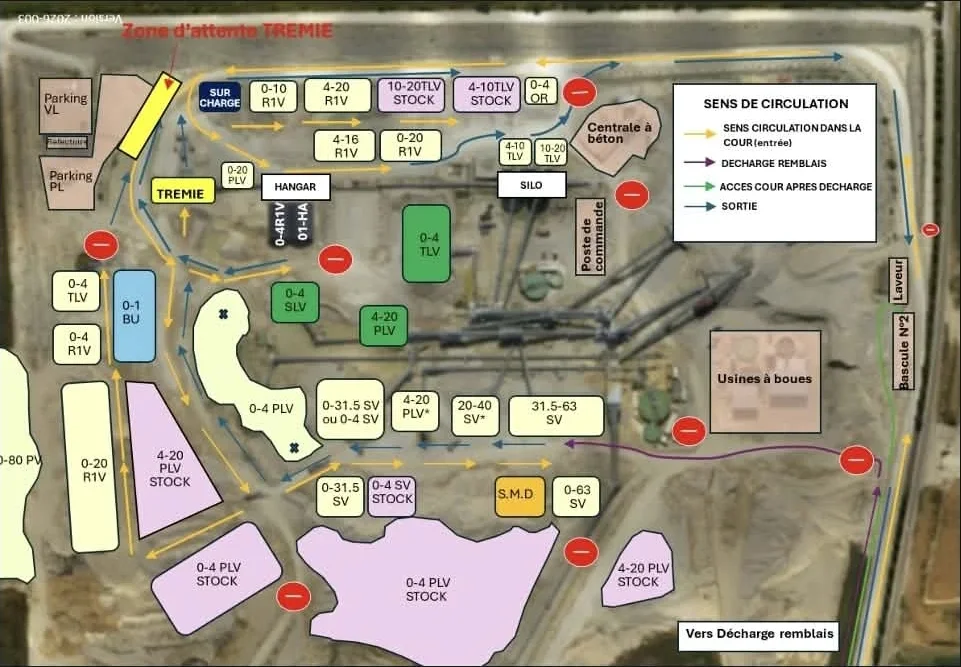
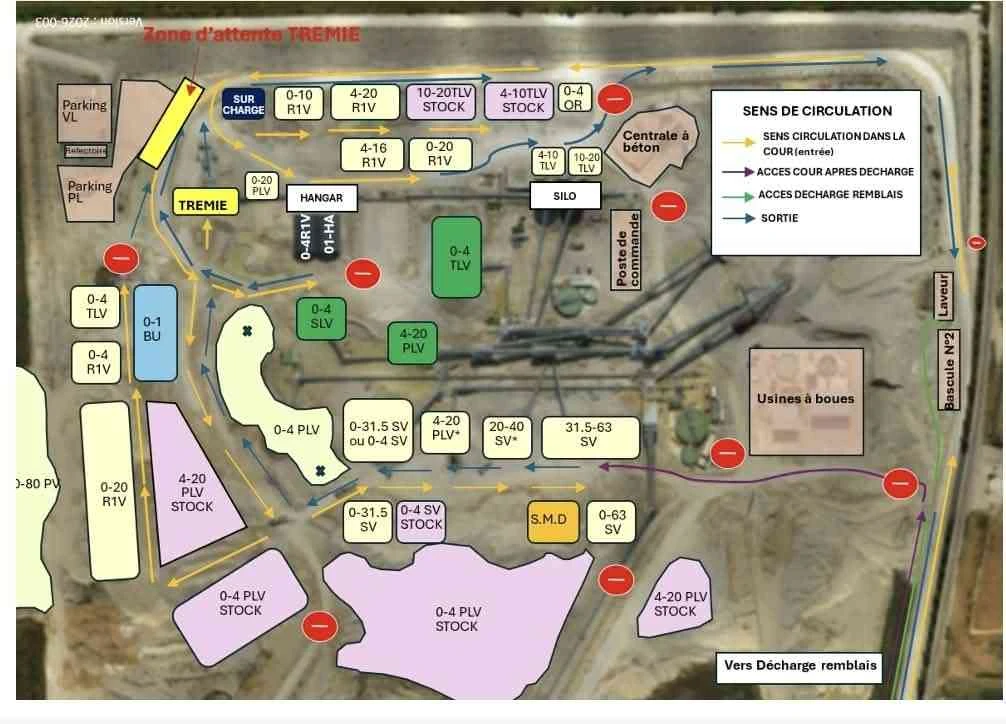
Nouvelle légende du plan, parkings redessinés, colonnes alignées
- Violet = accès cour après décharge, vert = accès décharge remblais
  (légende, itinéraires, flèche verte, zone et consigne)
- Parking PL en forme de L, réfectoire et zone d'attente recalés
- Blocs sous le plan en deux colonnes alignées en haut
- Nouvelle version de l'affiche dans sources/

diff --git a/src/data/plan-1.ts b/src/data/plan-1.ts
@@ -15,8 +15,8 @@ import { plan1Annotations } from './plan-1-annotations';
 
 const JAUNE = '#FFD400'; // circulation dans la cour (entrée)
 const BLEU = '#1F7AE0'; // sortie
-const VIOLET = '#A64DD6'; // décharge remblais
-const VERT = '#00C853'; // accès cour après décharge
+const VIOLET = '#A64DD6'; // accès cour après décharge
+const VERT = '#00C853'; // accès décharge remblais
 const ROUGE = '#E0001B'; // zones interdites
 const BLANC = '#FFFFFF';
 const ORANGE = '#FF8A00';
@@ -33,8 +33,8 @@ export const plan1: PlanData = {
   legend: [
     { color: JAUNE, label: 'Circulation dans la cour (entrée)' },
     { color: BLEU, label: 'Sortie' },
-    { color: VIOLET, label: 'Décharge remblais' },
-    { color: VERT, label: 'Accès cour après décharge' },
+    { color: VIOLET, label: 'Accès cour après décharge' },
+    { color: VERT, label: 'Accès décharge remblais' },
   ],
   width: 961,
   height: 667,
@@ -56,7 +56,7 @@ export const plan1: PlanData = {
       description: 'L’attente pour la trémie se fait le long du parking à engins.',
       consigne: 'Ne stationnez pas sur la piste : attendez votre tour dans la zone jaune.',
       shape: 'polygon',
-      coords: [160, 72, 180, 84, 135, 160, 116, 149],
+      coords: [164, 73, 182, 84, 136, 160, 119, 149],
       color: JAUNE,
     },
     {
@@ -81,7 +81,7 @@ export const plan1: PlanData = {
       label: 'Parking PL',
       description: 'Stationnement des poids lourds.',
       shape: 'polygon',
-      coords: [42, 150, 110, 136, 92, 212, 40, 210],
+      coords: [101, 76, 137, 76, 152, 86, 118, 148, 106, 162, 96, 182, 94, 209, 49, 209, 40, 156, 93, 157, 94, 136, 100, 134],
       color: BLANC,
     },
     {
@@ -89,7 +89,7 @@ export const plan1: PlanData = {
       label: 'Parking VL et réfectoire',
       description: 'Stationnement des véhicules légers. Le réfectoire se trouve entre les deux parkings.',
       shape: 'polygon',
-      coords: [40, 78, 96, 78, 96, 150, 40, 150],
+      coords: [40, 79, 93, 79, 93, 149, 40, 149],
       color: BLANC,
     },
     {
@@ -132,7 +132,7 @@ export const plan1: PlanData = {
       id: 'decharge-remblais',
       label: 'Décharge remblais',
       description:
-        'Accès à la décharge de remblais par la piste basse (flèche violette). Après la décharge, l’accès à la cour se fait par la voie verte.',
+        'Accès à la décharge de remblais par la voie verte, le long de la bascule. Après la décharge, l’accès à la cour se fait par la piste basse (flèche violette).',
       shape: 'polygon',
       coords: [678, 619, 838, 619, 838, 652, 678, 652],
       color: VIOLET,
@@ -169,26 +169,25 @@ export const plan1: PlanData = {
       ],
     },
     {
-      id: 'remblais',
-      label: 'Décharge remblais',
-      color: VIOLET,
-      d: 'M 846 667 C 852 610 864 540 878 494 C 882 476 874 462 845 458 C 800 452 720 451 640 451 L 566 448',
+      id: 'acces-decharge',
+      label: 'Accès décharge remblais',
+      color: VERT,
+      d: 'M 905 240 C 888 262 881 290 881 320 C 882 380 882 440 880 490 C 878 540 872 600 868 667',
       steps: [
-        'Entrée par la piste d’accès (est)',
-        'Bifurquer à gauche avant la bascule',
-        'Piste basse vers l’ouest (flèche violette)',
-        'Décharger selon les indications du chargeur',
+        'Depuis la cour, prendre la voie verte le long de la bascule',
+        'Descendre par la piste d’accès',
+        'Continuer vers la décharge remblais',
       ],
     },
     {
       id: 'retour-cour',
-      label: 'Retour cour après décharge',
-      color: VERT,
-      d: 'M 868 667 C 872 600 878 540 880 490 C 882 440 882 380 881 320 C 881 290 888 262 905 240',
+      label: 'Accès cour après décharge',
+      color: VIOLET,
+      d: 'M 846 667 C 852 610 864 540 878 494 C 882 476 874 462 845 458 C 800 452 720 451 640 451 L 566 448',
       steps: [
-        'Retour de la décharge par la piste d’accès',
-        'Remonter par la voie verte, à gauche de la bascule',
-        'Rejoindre la cour',
+        'Retour de la décharge remblais par la piste d’accès',
+        'Bifurquer avant la bascule (flèche violette)',
+        'Piste basse vers l’ouest jusqu’à la cour',
       ],
     },
   ],
@@ -209,7 +208,7 @@ export const plan1: PlanData = {
   rules: [
     {
       title: 'Sens de circulation',
-      text: 'Suivez les flèches : jaune pour entrer dans la cour, bleu pour sortir, violet pour la décharge remblais, vert pour revenir dans la cour après décharge.',
+      text: 'Suivez les flèches : jaune pour entrer dans la cour, bleu pour sortir, vert pour aller à la décharge remblais, violet pour revenir dans la cour après décharge.',
     },
     {
       title: 'Zones interdites',

diff --git a/src/data/plan-1-annotations.ts b/src/data/plan-1-annotations.ts
@@ -42,9 +42,11 @@ export const plan1Annotations: Annotations = {
     { kind: 'building', rect: [891, 310, 21, 82], label: 'Bascule N°2', vertical: true },
 
     // Parkings et attente trémie
-    { kind: 'parking', rect: [40, 78, 55, 57], label: 'Parking\nVL' },
-    { kind: 'parking', polygon: [42, 150, 110, 136, 92, 212, 40, 210], label: 'Parking\nPL' },
-    { kind: 'wait', polygon: [160, 72, 180, 84, 135, 160, 116, 149] },
+    { kind: 'parking', rect: [40, 79, 53, 56], label: 'Parking\nVL' },
+    { kind: 'building', rect: [46, 137, 42, 12], label: 'Réfectoire' },
+    // Parking PL : forme en L qui longe la zone d'attente
+    { kind: 'parking', polygon: [101, 76, 137, 76, 152, 86, 118, 148, 106, 162, 96, 182, 94, 209, 49, 209, 40, 156, 93, 157, 94, 136, 100, 134], label: 'Parking\nPL', labelAt: [68, 183], fontSize: 12 },
+    { kind: 'wait', polygon: [164, 73, 182, 84, 136, 160, 119, 149] },
 
     // Centre
     { kind: 'green', rect: [403, 205, 44, 77], label: '0-4\nTLV' },
@@ -129,10 +131,10 @@ export const plan1Annotations: Annotations = {
     { color: BLEU, d: 'M 180 366 L 180 342' },
     { color: BLEU, d: 'M 250 480 L 218 418' },
     { color: BLEU, d: 'M 890 490 C 882 560 871 620 862 662' },
-    // Violet : décharge remblais
+    // Violet : accès cour après décharge (retour de la décharge par la piste basse)
     { color: VIOLET, d: 'M 876 560 L 876 492 C 877 470 870 458 850 454 C 780 450 700 452 640 452 L 568 444' },
-    // Vert : accès cour après décharge
-    { color: VERT, d: 'M 872 660 C 876 600 880 540 881 490 C 882 420 884 360 888 308' },
+    // Vert : accès décharge remblais (descente le long de la bascule)
+    { color: VERT, d: 'M 888 308 C 884 360 882 420 881 490 C 880 540 876 600 872 660' },
   ],
 
   noEntry: [
@@ -149,7 +151,6 @@ export const plan1Annotations: Annotations = {
 
   labels: [
     { x: 150, y: 50, text: 'Zone d’attente trémie', size: 12 },
-    { x: 67, y: 145, text: 'Réfectoire', size: 9 },
     { x: 856, y: 640, text: 'Vers décharge remblais', size: 13, anchor: 'end' },
     { x: 884, y: 662, text: 'Accès site', size: 12, anchor: 'end' },
   ],

diff --git a/src/components/PlanPage.tsx b/src/components/PlanPage.tsx
@@ -99,9 +99,13 @@ export function PlanPage({ data, eyebrow }: { data: PlanData; eyebrow: string })
         {data.imageCredit && <p className="image-credit">Vue aérienne : {data.imageCredit}</p>}
 
         <div className="sections">
-          <RouteSteps route={route} current={step} />
-          <SafetyRules rules={data.rules} />
-          <ZoneList hotspots={data.hotspots} onSelect={selectFromList} />
+          <div className="sections-col">
+            <RouteSteps route={route} current={step} />
+            <SafetyRules rules={data.rules} />
+          </div>
+          <div className="sections-col">
+            <ZoneList hotspots={data.hotspots} onSelect={selectFromList} />
+          </div>
         </div>
       </main>
 

diff --git a/src/styles.css b/src/styles.css
@@ -652,17 +652,17 @@ h1 {
   padding: 16px;
 }
 
-/* Grand écran : deux colonnes où les blocs s'empilent sans laisser de vide */
+.sections-col {
+  display: grid;
+  gap: 16px;
+  align-content: start;
+}
+
+/* Grand écran : deux colonnes alignées en haut, les blocs s'empilent dans chacune */
 @media (min-width: 900px) {
   .sections {
-    display: block;
-    columns: 2;
-    column-gap: 16px;
-  }
-
-  .sections > * {
-    break-inside: avoid;
-    margin-bottom: 16px;
+    grid-template-columns: 1fr 1fr;
+    align-items: start;
   }
 }
 

diff --git a/src/components/AnnotationLayer.tsx b/src/components/AnnotationLayer.tsx
@@ -43,8 +43,7 @@ function AreaLabel({ area, fill }: { area: AnnotationArea; fill: string }) {
     5,
     Math.min(area.fontSize ?? 13, (along - 6) / (longest * 0.62), ((across - 4) / lines.length) * 0.82),
   );
-  const cx = x + w / 2;
-  const cy = y + h / 2;
+  const [cx, cy] = area.labelAt ?? [x + w / 2, y + h / 2];
   const first = -((lines.length - 1) * size * 1.05) / 2;
   return (
     <text

diff --git a/src/types.ts b/src/types.ts
@@ -78,6 +78,8 @@ export type AnnotationArea = AnnotationShape & {
   vertical?: boolean;
   /** Taille de texte maximale (par défaut : ajustée à la surface) */
   fontSize?: number;
+  /** Position du libellé si le centre de la forme ne convient pas (forme en L, par ex.) */
+  labelAt?: [number, number];
 };
 
 /** Annotations dessinées sur la photo, dans le repère du plan (0 0 width height). */
